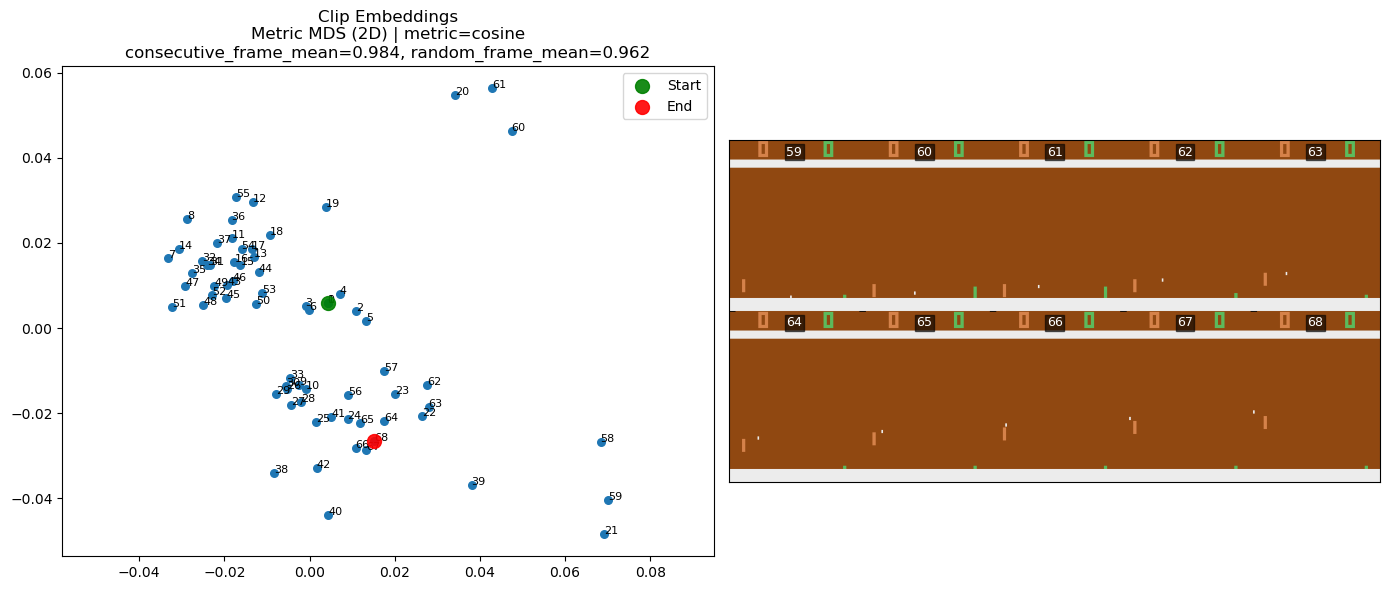
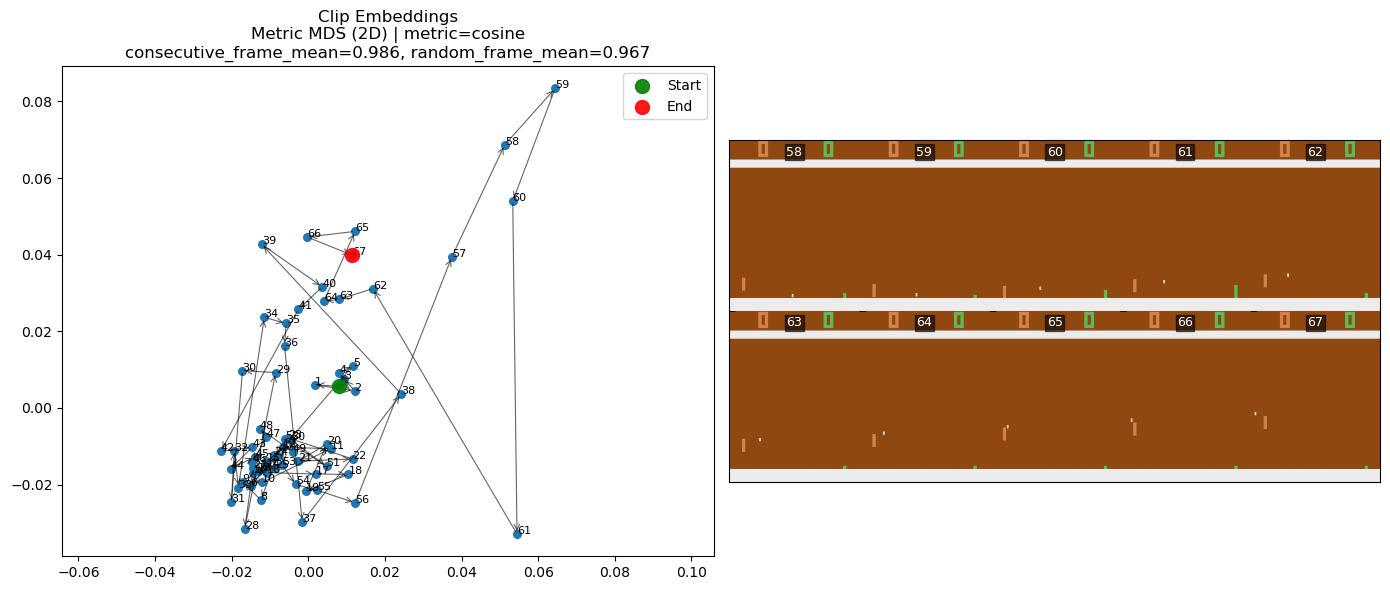
remove arrow labels

diff --git a/cleanrl_utils/evals/image_embeddings_pong.py b/cleanrl_utils/evals/image_embeddings_pong.py
@@ -121,7 +121,7 @@ def compute_MDS(embeddings: List[np.ndarray], similarity_metric: str = "euclidea
         ax_mds.text(x, y, str(i), fontsize=8)
 
     # draw arrows between consecutive points and label with 2D distance
-    if arrows:
+    if True:
         for i in range(len(X_transformed) - 1):
             x_start, y_start = X_transformed[i, 0], X_transformed[i, 1]
             x_end, y_end = X_transformed[i + 1, 0], X_transformed[i + 1, 1]
@@ -139,7 +139,8 @@ def compute_MDS(embeddings: List[np.ndarray], similarity_metric: str = "euclidea
             mid_y = y_start + dy / 2
             # use original-space pairwise distance matrix `D` computed above
             dist_orig = float(D[i, i + 1])
-            ax_mds.text(mid_x, mid_y, f"{dist_orig:.2f}", fontsize=8, ha='center', va='center', bbox=dict(boxstyle='round,pad=0.2', facecolor='yellow', alpha=0.6))
+            if arrows:
+                ax_mds.text(mid_x, mid_y, f"{dist_orig:.2f}", fontsize=8, ha='center', va='center', bbox=dict(boxstyle='round,pad=0.2', facecolor='yellow', alpha=0.6))
 
     ax_mds.axis("equal")
     ax_mds.set_title(f"{title}\nMetric MDS (2D) | metric={similarity_metric}\n{fc_text}")
@@ -172,7 +173,7 @@ def compute_MDS(embeddings: List[np.ndarray], similarity_metric: str = "euclidea
             if isinstance(frame, np.ndarray):
                 if frame.ndim == 3 and frame.shape[0] == 4:
                     # frame stack (C, H, W) - use first channel
-                    img = frame[0]
+                    img = frame[3]
                 elif frame.ndim == 3 and frame.shape[-1] == 3:
                     # RGB image (H, W, C)
                     img = frame
